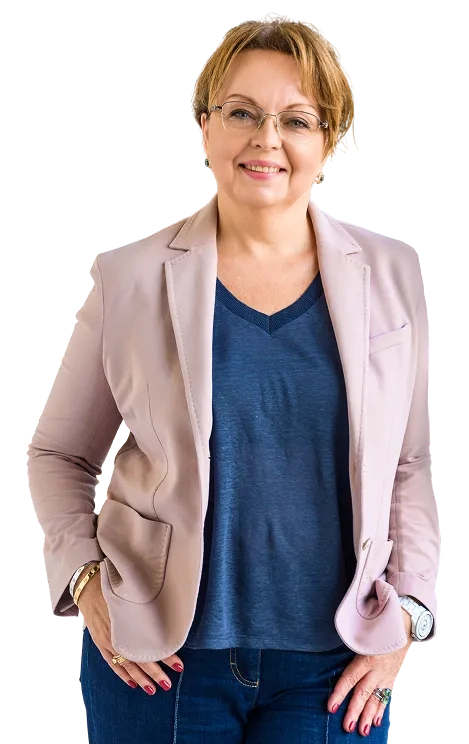
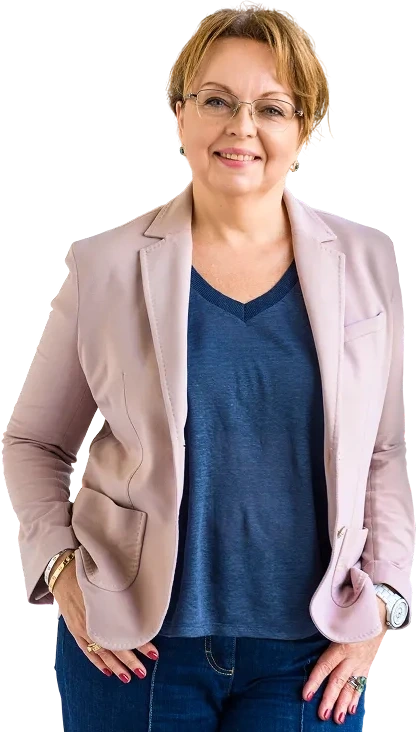
Perfect portrait proportions, card symmetry & 100% mobile optimization

diff --git a/styles.css b/styles.css
@@ -36,6 +36,7 @@ html {
   scroll-behavior: smooth;
   font-size: 16px;
   overflow-x: clip;
+  -webkit-text-size-adjust: 100%;
 }
 
 body {
@@ -47,6 +48,10 @@ body {
   font-feature-settings: "cv02", "cv03", "cv04", "cv11";
   line-height: 1.5;
   -webkit-font-smoothing: antialiased;
+}
+
+a, button, summary, input, textarea, label {
+  touch-action: manipulation;
 }
 
 img {
@@ -238,8 +243,8 @@ section, [id] {
 
 .hero-grid {
   display: grid;
-  grid-template-columns: minmax(0, 1.15fr) minmax(0, 0.95fr);
-  gap: 44px;
+  grid-template-columns: minmax(0, 1.04fr) minmax(0, 1fr);
+  gap: 38px;
   align-items: center;
 }
 
@@ -345,24 +350,27 @@ section, [id] {
 
 .hero-card-body {
   display: grid;
-  grid-template-columns: 1fr 220px;
-  gap: 12px;
+  grid-template-columns: minmax(0, 1fr) 268px;
+  gap: 14px;
   align-items: end;
   padding-top: 16px;
 }
 
 .navigator-nodes {
-  display: flex;
-  flex-direction: column;
-  gap: 8px;
-  padding-bottom: 22px;
+  display: grid;
+  grid-template-rows: repeat(4, 1fr);
+  gap: 9px;
+  padding-bottom: 20px;
 }
 
 .nav-node {
+  display: flex;
+  flex-direction: column;
+  justify-content: center;
   background: rgba(255, 255, 255, 0.08);
   border: 1px solid rgba(250, 247, 241, 0.18);
   border-radius: 8px;
-  padding: 8px 11px;
+  padding: 9px 12px;
   transition: background-color 0.2s ease, border-color 0.2s ease;
 }
 
@@ -393,15 +401,22 @@ section, [id] {
 }
 
 .hero-portrait-wrap {
-  align-self: end;
+  align-self: stretch;
+  display: flex;
+  align-items: flex-end;
+  justify-content: center;
   position: relative;
+  background: radial-gradient(circle at 52% 46%, rgba(235, 210, 124, 0.22) 0%, rgba(235, 210, 124, 0.05) 56%, transparent 74%);
 }
 
 .hero-portrait-wrap img {
   width: 100%;
+  max-width: 268px;
   height: auto;
-  object-fit: cover;
-  filter: drop-shadow(0 8px 20px rgba(0, 0, 0, 0.22));
+  display: block;
+  object-fit: contain;
+  object-position: bottom center;
+  filter: drop-shadow(0 10px 24px rgba(0, 0, 0, 0.24));
 }
 
 .hero-caption-bar {
@@ -721,11 +736,21 @@ section, [id] {
 }
 
 .author-photo {
-  background: var(--bg);
+  background: linear-gradient(180deg, #faf7f1 0%, #ede6d8 100%);
   border: 1px solid var(--line);
   border-radius: var(--radius-md);
   overflow: hidden;
-  padding-top: 8px;
+  aspect-ratio: 3 / 3.7;
+  display: flex;
+  align-items: flex-end;
+  justify-content: center;
+}
+
+.author-photo img {
+  width: 100%;
+  height: 100%;
+  object-fit: cover;
+  object-position: top center;
 }
 
 .author-quote {
@@ -1180,28 +1205,62 @@ section, [id] {
 
 @media (max-width: 680px) {
   .wrap {
-    padding: 0 18px;
+    padding: 0 16px;
+  }
+  .sec {
+    padding: 42px 0;
+  }
+  .sec-header {
+    margin-bottom: 22px;
   }
   .header-inner {
     min-height: 60px;
     gap: 10px;
   }
   .brand-title {
-    font-size: 0.86rem;
+    font-size: 0.88rem;
   }
   .brand-sub {
-    font-size: 0.68rem;
+    font-size: 0.7rem;
   }
   .header-actions .btn-sm {
     display: none;
   }
+  .burger {
+    min-height: 44px;
+    padding: 8px 14px;
+    align-items: center;
+  }
+  .mobile-nav {
+    padding: 12px 16px 18px;
+    gap: 2px;
+  }
+  .mobile-nav a {
+    padding: 11px 0;
+    border-bottom: 1px solid var(--line);
+  }
+  .mobile-nav a:last-child {
+    border-bottom: none;
+  }
   .hero {
-    padding: 26px 0 24px;
+    padding: 24px 0 22px;
   }
   .hero h1 {
-    font-size: 1.72rem;
-    line-height: 1.12;
-    overflow-wrap: anywhere;
+    font-size: clamp(1.64rem, 6.5vw, 2.02rem);
+    line-height: 1.13;
+    overflow-wrap: break-word;
+  }
+  .hero-lead {
+    font-size: 0.98rem;
+    margin-bottom: 18px;
+  }
+  .hero-meta-line {
+    font-size: 0.84rem;
+    gap: 8px 14px;
+    margin-bottom: 18px;
+  }
+  .btn {
+    min-height: 48px;
   }
   .hero-cta-row .btn {
     width: 100%;
@@ -1210,44 +1269,115 @@ section, [id] {
   }
   .hero-card {
     padding: 18px 16px 0;
+    border-radius: 16px;
+  }
+  .hero-card-top {
+    font-size: 0.68rem;
+    gap: 8px;
+    flex-wrap: wrap;
+  }
+  .hero-card-body {
+    grid-template-columns: 1fr;
+    gap: 14px;
+    padding-top: 14px;
+  }
+  .navigator-nodes {
+    grid-template-rows: none;
+    padding-bottom: 4px;
+  }
+  .hero-portrait-wrap {
+    width: 100%;
+    max-width: 260px;
+    margin: 0 auto;
+  }
+  .hero-portrait-wrap img {
+    max-width: 260px;
   }
   .hero-caption-bar {
     margin: 0 -16px;
     padding: 10px 16px;
     flex-wrap: wrap;
     gap: 4px 12px;
+    font-size: 0.72rem;
   }
-  .hero-card-body {
-    grid-template-columns: 1fr;
-  }
-  .hero-portrait-wrap {
-    max-width: 210px;
-    margin: 0 auto;
+  .ticker {
+    padding: 10px 0;
   }
   .audience-grid,
   .steps-grid {
     grid-template-columns: 1fr;
   }
+  .aud-card,
+  .step-cell {
+    padding: 20px 18px;
+  }
+  .aud-top {
+    flex-wrap: wrap;
+    gap: 6px;
+  }
   .step-cell {
     border-right: none;
   }
+  .checklist {
+    padding: 4px 18px;
+  }
+  .check-item {
+    grid-template-columns: 28px 1fr;
+    padding: 14px 0;
+  }
   .author-top {
     grid-template-columns: 1fr;
+    justify-items: center;
+    text-align: center;
+    gap: 16px;
+    padding: 20px 18px;
+  }
+  .author-bio {
+    text-align: left;
   }
   .author-photo {
-    max-width: 220px;
+    width: 210px;
+    max-width: 210px;
+    aspect-ratio: 3 / 3.5;
+    margin: 0 auto;
   }
   .author-stats {
     grid-template-columns: repeat(2, 1fr);
+  }
+  .author-stats .stat-cell:nth-child(-n+2) {
+    border-bottom: 1px solid var(--line);
+  }
+  .author-stats .stat-cell:nth-child(2n) {
+    border-right: none;
   }
   .tariff-card,
   .form-card {
     padding: 22px 18px;
   }
+  .tariff-row {
+    flex-wrap: wrap;
+    gap: 2px 12px;
+  }
   .tariff-pay-box {
     grid-template-columns: 1fr;
+    gap: 14px;
   }
   .qr-frame {
-    max-width: 140px;
+    max-width: 150px;
+    margin: 0 auto;
+  }
+  .field input,
+  .field textarea {
+    font-size: 16px;
+    min-height: 48px;
+    padding: 12px 14px;
+  }
+  .faq-item summary {
+    min-height: 52px;
+    padding: 16px 0;
+    font-size: 0.98rem;
+  }
+  .site-footer {
+    padding: 28px 0 36px;
   }
 }

diff --git a/index.html b/index.html
@@ -2,7 +2,8 @@
 <html lang="ru">
 <head>
   <meta charset="UTF-8">
-  <meta name="viewport" content="width=device-width, initial-scale=1.0">
+  <meta name="viewport" content="width=device-width, initial-scale=1.0, viewport-fit=cover">
+  <meta name="theme-color" content="#144E46">
   <meta name="robots" content="noindex, nofollow">
   <title>HR ретрит: Из карьерного тупика — к ясной стратегии и новым возможностям · Школа Елены Витчак</title>
   <meta name="description" content="4 недели практики с Еленой Витчак (Сколково, 25 лет в HR), чтобы выйти из операционки, увидеть риски и ресурсы, собрать карту стейкхолдеров и карьерную дорожную карту 3–12–36.">
@@ -96,15 +97,15 @@
             <div class="navigator-nodes">
               <div class="nav-node">
                 <div class="nav-node-k">Встреча 01 · 1 декабря</div>
-                <div class="nav-node-v">Карта рисков HR: 3 угрозы и 3 ресурса</div>
+                <div class="nav-node-v">Карта рисков: 3 угрозы + 3 ресурса</div>
               </div>
               <div class="nav-node">
                 <div class="nav-node-k">Встреча 02 · 8 декабря</div>
-                <div class="nav-node-v">Stop–Start–Shift: точки утечки энергии</div>
+                <div class="nav-node-v">Stop–Start–Shift: утечки энергии</div>
               </div>
               <div class="nav-node">
                 <div class="nav-node-k">Встреча 03 · 15 декабря</div>
-                <div class="nav-node-v">Стейкхолдеры и скрипты разговоров</div>
+                <div class="nav-node-v">Стейкхолдеры и трудные разговоры</div>
               </div>
               <div class="nav-node is-accent">
                 <div class="nav-node-k">Встреча 04 · Итог</div>
@@ -113,7 +114,7 @@
             </div>
 
             <div class="hero-portrait-wrap">
-              <img src="assets/elena-about.webp" alt="Елена Витчак — автор программы HR ретрит" width="380" height="460">
+              <img src="assets/elena-about.webp" alt="Елена Витчак — автор программы HR ретрит" width="722" height="779" fetchpriority="high" decoding="async">
             </div>
           </div>
 
@@ -349,7 +350,7 @@
           <aside class="author-panel" id="author">
             <div class="author-top">
               <div class="author-photo">
-                <img src="assets/elena-1121.webp" alt="Елена Витчак — профессор бизнес-практики Сколково" width="260" height="320">
+                <img src="assets/elena-1121.webp" alt="Елена Витчак — профессор бизнес-практики Сколково" width="416" height="732" loading="lazy" decoding="async">
               </div>
               <div>
                 <div class="author-quote">«Делаю сложное понятным»</div>
@@ -514,13 +515,13 @@
                   </a>
                 </div>
                 <div class="qr-frame">
-                  <img src="assets/elena-cost.jpg" alt="QR-код для оплаты HR-ретрита через ЮKassa" width="120" height="120">
+                  <img src="assets/elena-cost.jpg" alt="QR-код для оплаты HR-ретрита через ЮKassa" width="120" height="120" loading="lazy" decoding="async">
                   <span>QR ЮKassa</span>
                 </div>
               </div>
 
               <p class="b2b-note">
-                Оплата по счёту осуществляется по запросу — можно направить заявку справа или написать на
+                Оплата по счёту осуществляется по запросу — можно направить через форму заявки или написать на
                 <a href="mailto:hr.retrit@yandex.ru?subject=%D0%A1%D1%87%D1%91%D1%82%20%D0%BD%D0%B0%20%D0%BE%D0%BF%D0%BB%D0%B0%D1%82%D1%83%20HR-%D1%80%D0%B5%D1%82%D1%80%D0%B8%D1%82%D0%B0">hr.retrit@yandex.ru</a>.
                 *Все закрывающие документы будут предоставлены.
               </p>
